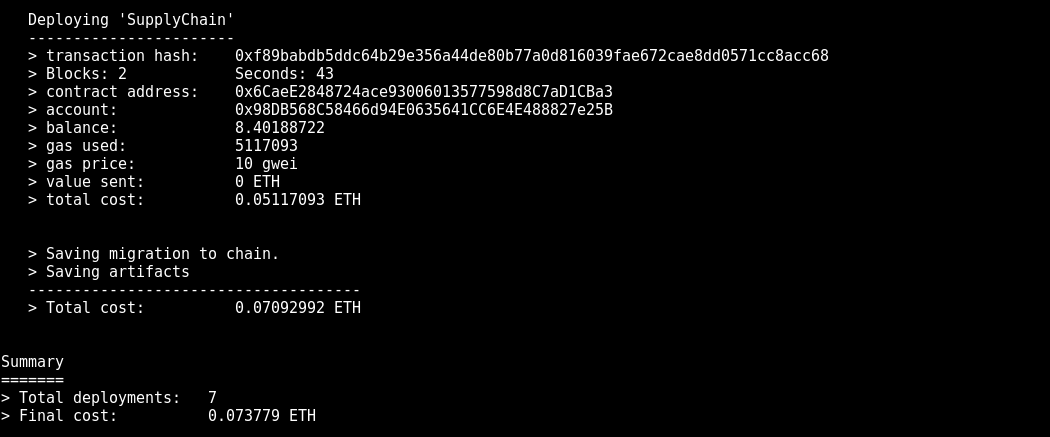
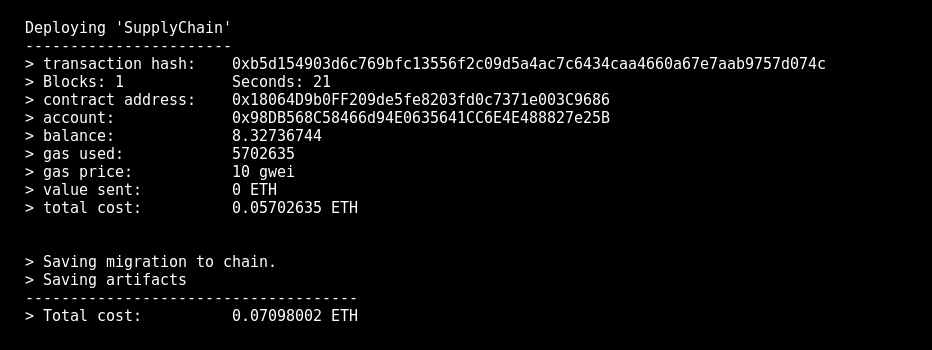
feat: configuration with environment viables, updated README

Changed region(s): [[0.0, 0.0286, 0.9024, 0.9714], [0.1867, 0.8857, 0.4045, 0.9714], [0.28, 0.8286, 0.3423, 0.8571]]

diff --git a/truffle.js b/truffle.js
@@ -1,10 +1,10 @@
-//const { infurakey, infuramnemonic, infuraendpoint } = require('./config');
+const { infurakey, infuramnemonic, infuraendpoint } = require('./config');
 
 const HDWalletProvider = require('truffle-hdwallet-provider');
-const infuraKey = "17b65319c44a48bc98040d5678cb9a2f";
+const infuraKey = infurakey;
 //
 // const fs = require('fs');
-const mnemonic = "end jar civil wink heart acid jump truck rapid region else hood";
+const mnemonic = infuramnemonic;
 
 module.exports = {
   networks: {

diff --git a/README.md b/README.md
@@ -4,7 +4,9 @@
 
   The user story is similar to any commonly used supply chain process. A Retailer can add submit orders of assets; then, the company reviews the orders and approve them; following this, the distribution center receives  the order and process it; once the order is ready, it is shipped to retailer for selling the asset composing the order. The whole cycle of ordering is stored in the blockchain. A Customer can buy telco assets, such as mobile phones and tablets from the Retailers. Additionally a Retailer can mark an item as ForSale, and similarly a Customer can mark an item as Sold when the amount, which is paid for it, is sufficient and ownership is transferred to the Customer.
 
-  The **truffle.js** file of this project is configured to deploy the smart contract in the Ethereum testnet, Rinkeby. The Infura and Metamask are utilized in order to deploy and use the smart contract. The contract's address is *0x0e3F3Fb2D40D5Fc8BAc22c58a5a319301332FF28*, with transaction hash, *0x167ad5c3bc037ffde76194a8c0c5cf826557d85a939fabc0c0861b6c95a8c887*.
+  The **truffle.js** file of this project is configured to deploy the smart contract in the Ethereum testnet, Rinkeby. The Infura and Metamask are utilized in order to deploy and use the smart contract. Create a .env file and define the INFURA_KEY, INFURA_ENDPOINT and INFURA_MNEMONIC. In the **truffle.js** file use the INFURA_KEY, INFURA_ENDPOINT and INFURA_MNEMONIC.
+
+  The Dapp is already deployed to the Ethereum testnet, Rinkeby. The contract's address is *0x18064D9b0FF209de5fe8203fd0c7371e003C9686*, with transaction hash, *0xb5d154903d6c769bfc13556f2c09d5a4ac7c6434caa4660a67e7aab9757d074c*.
 
   ![truffle test](images/contract.png)
 
